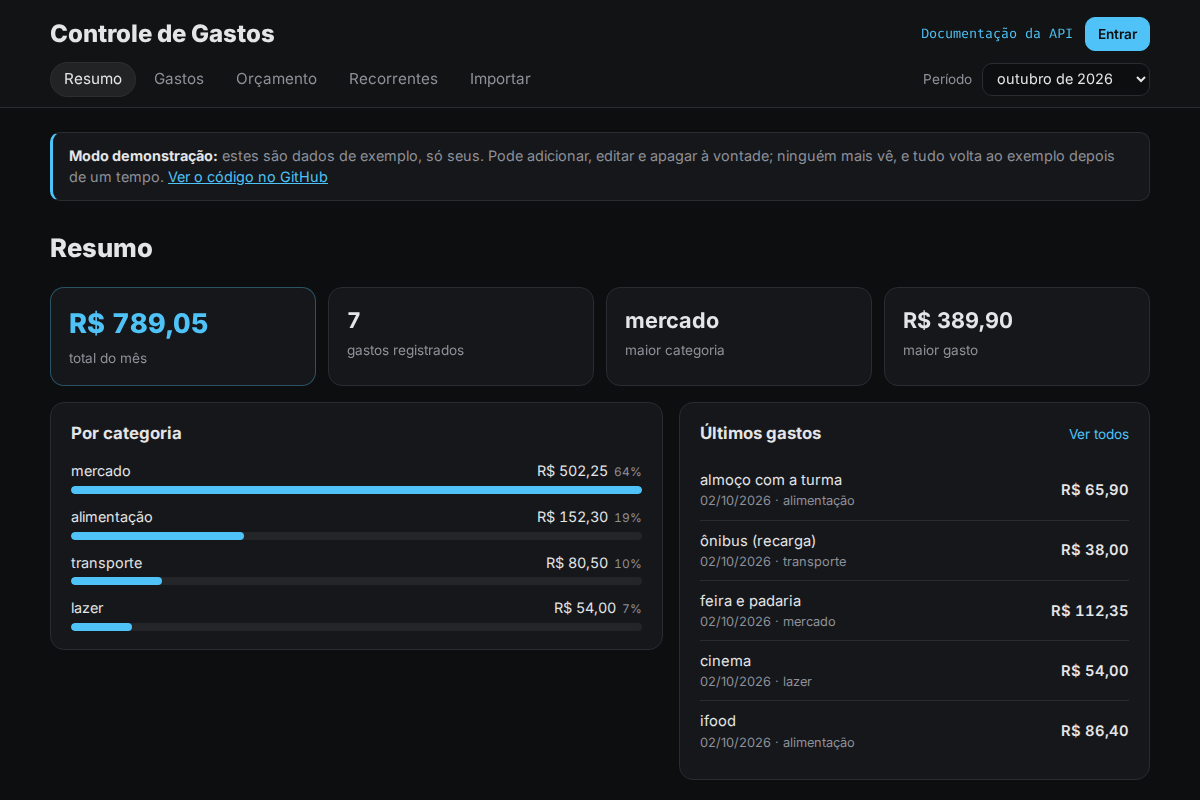
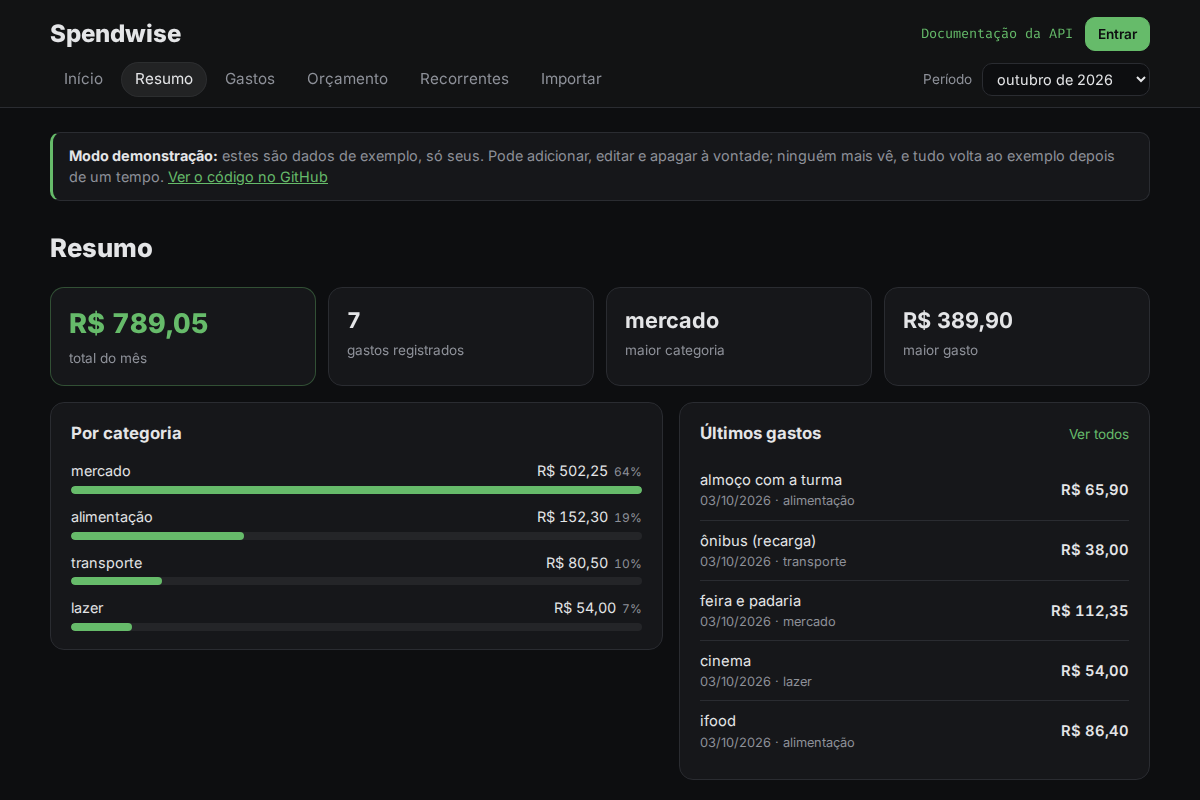
Refaz os prints e o GIF do terminal com o lobby, o verde e o nome Spendwise

diff --git a/README.md b/README.md
@@ -6,7 +6,7 @@
 
 **Ver ao vivo:** https://controle-gastos-lakes777.vercel.app (demonstração com dados de exemplo, só seus)
 
-![Demonstração do controle de gastos: adicionar, listar, editar, gráficos e exportar para Excel](docs/demo.gif)
+![Demonstração do Spendwise no terminal: adicionar, listar, editar, gráficos e exportar para Excel](docs/demo.gif)
 
 > Gravado com dados de exemplo.
 
@@ -170,9 +170,11 @@ Orçamento de mercado em set/2026: R$ 420,00 de R$ 500,00 (84%) - ATENÇÃO: sob
 
 ## Versão web
 
-![Aba Resumo da versão web: total do mês em destaque, gráfico por categoria e últimos gastos](docs/web.png)
+![Lobby do Spendwise: nome em destaque, três vantagens e os botões Começar e Entrar na minha conta](docs/lobby.png)
 
-> Print com dados de exemplo. A página tem 5 abas (Resumo, Gastos, Orçamento, Recorrentes e Importar), cada uma com seu endereço (`/#gastos`, por exemplo), com as mesmas animações do [portfólio](https://lakes777.github.io).
+![Aba Resumo do Spendwise na versão web: total do mês em destaque, gráfico por categoria e últimos gastos](docs/web.png)
+
+> Prints com dados de exemplo (modo de demonstração). Na raiz fica o lobby; dele, o Começar leva às 5 abas (Resumo, Gastos, Orçamento, Recorrentes e Importar), cada uma com seu endereço (`/#gastos`, por exemplo), com as mesmas animações do [portfólio](https://lakes777.github.io).
 
 ```bash
 python -m venv .venv
